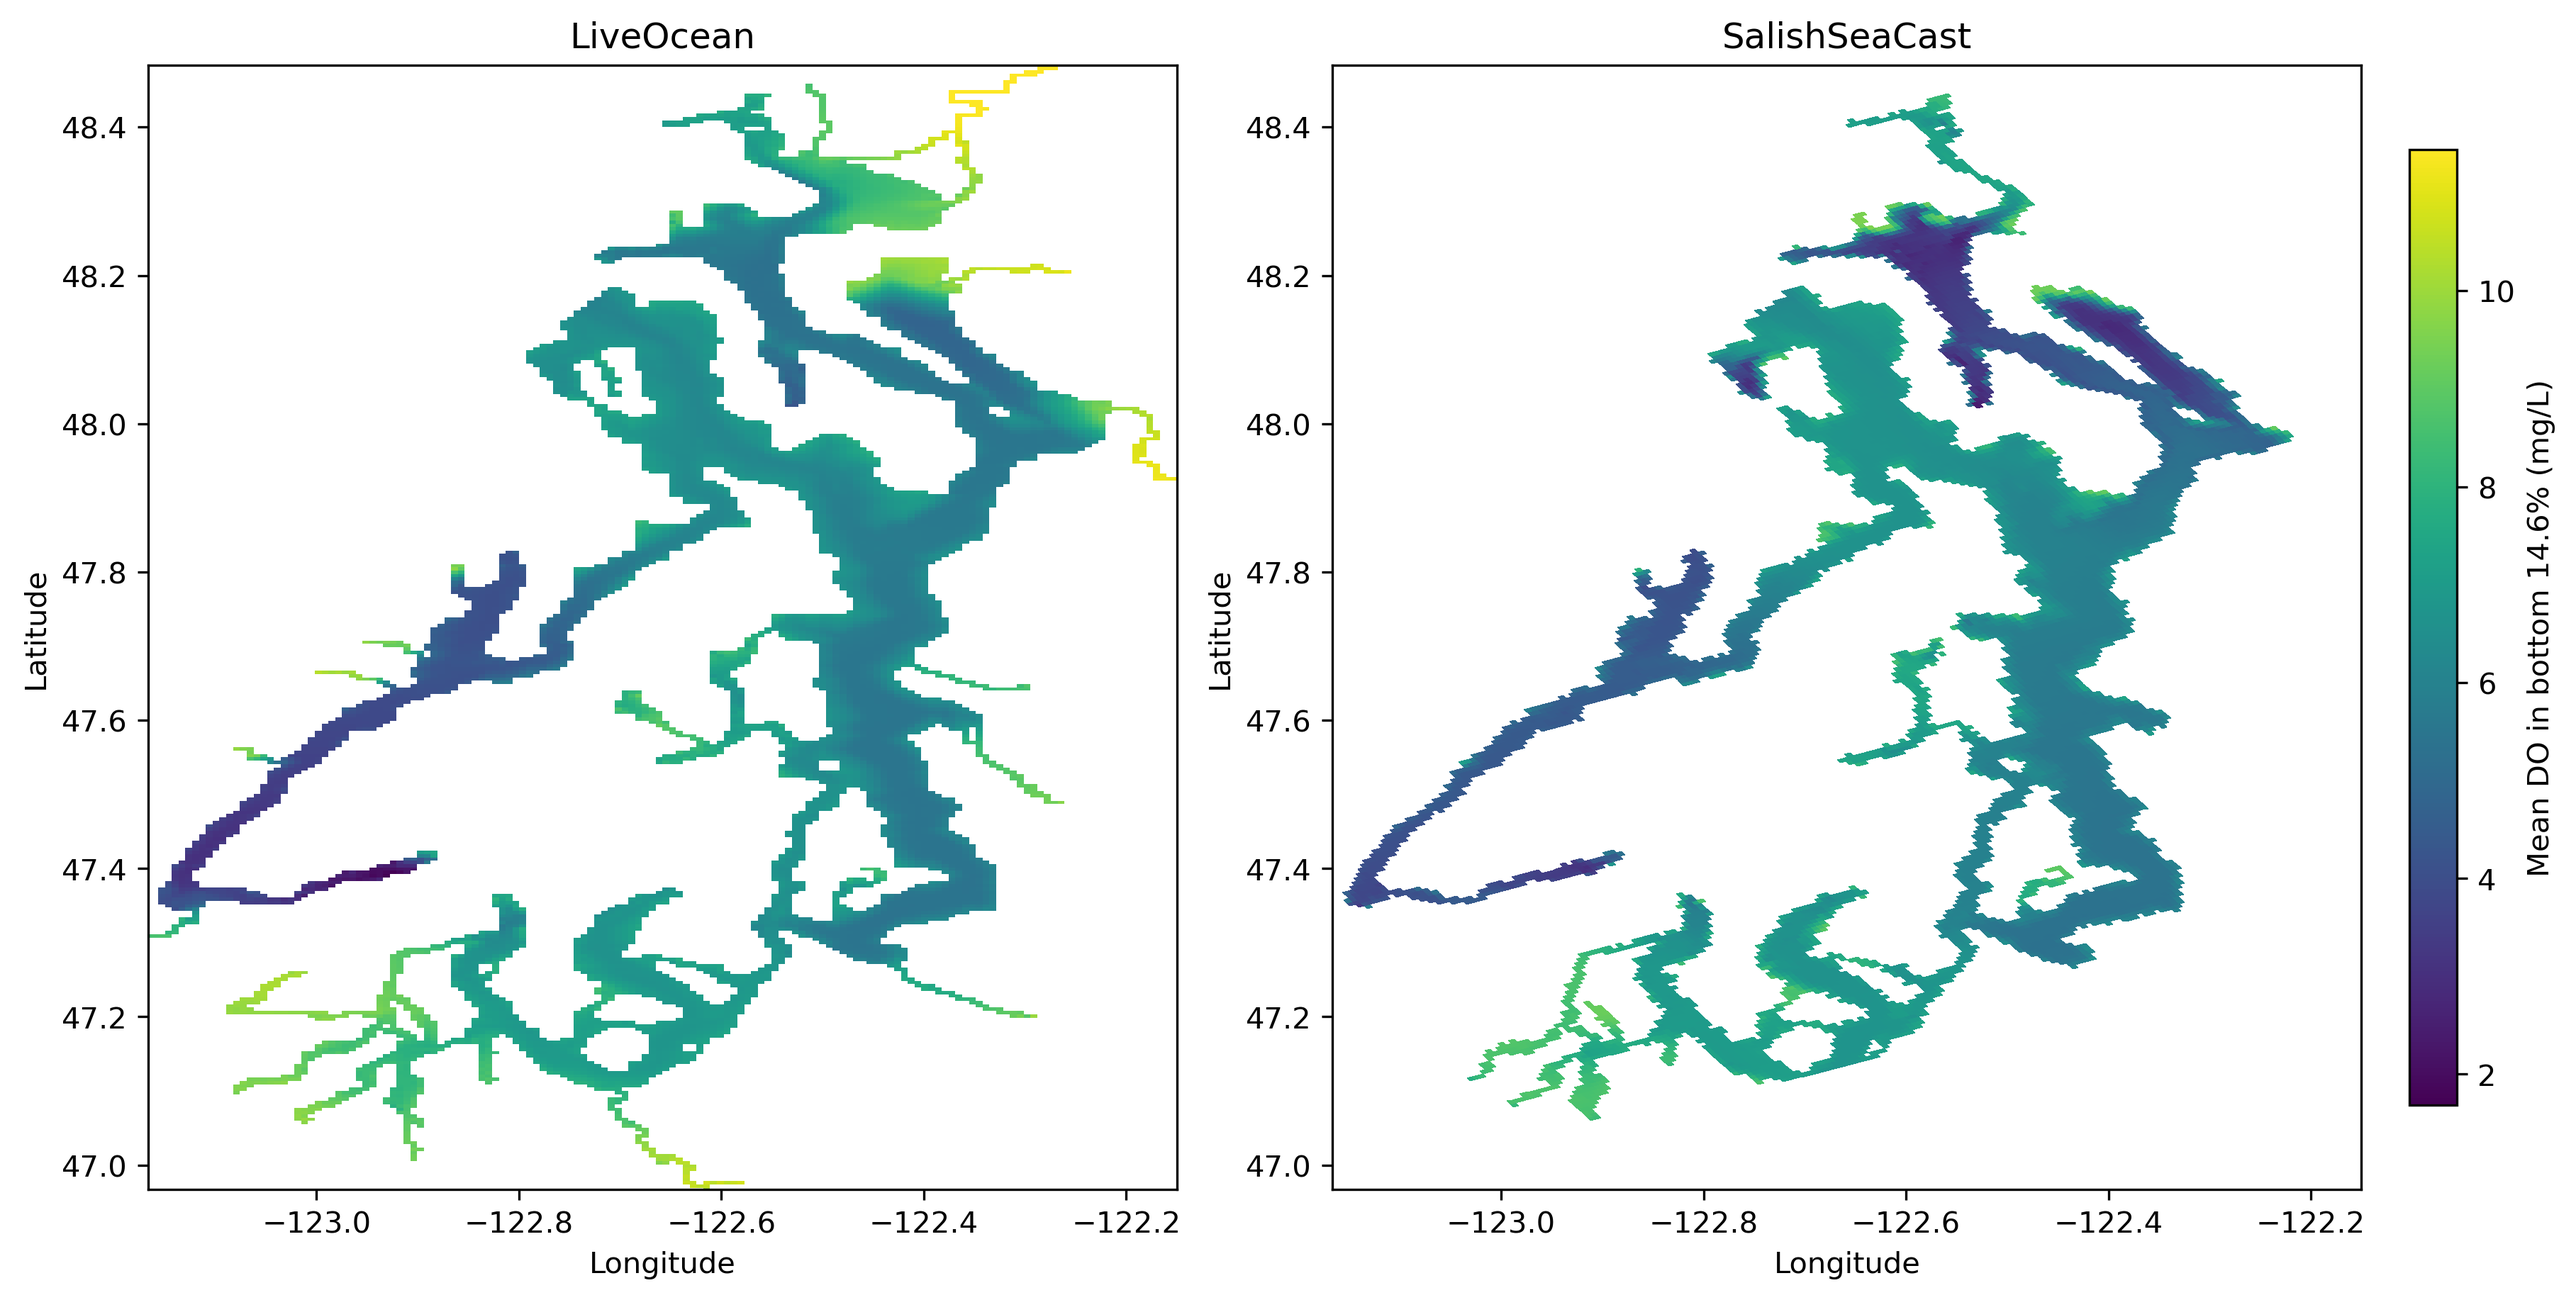
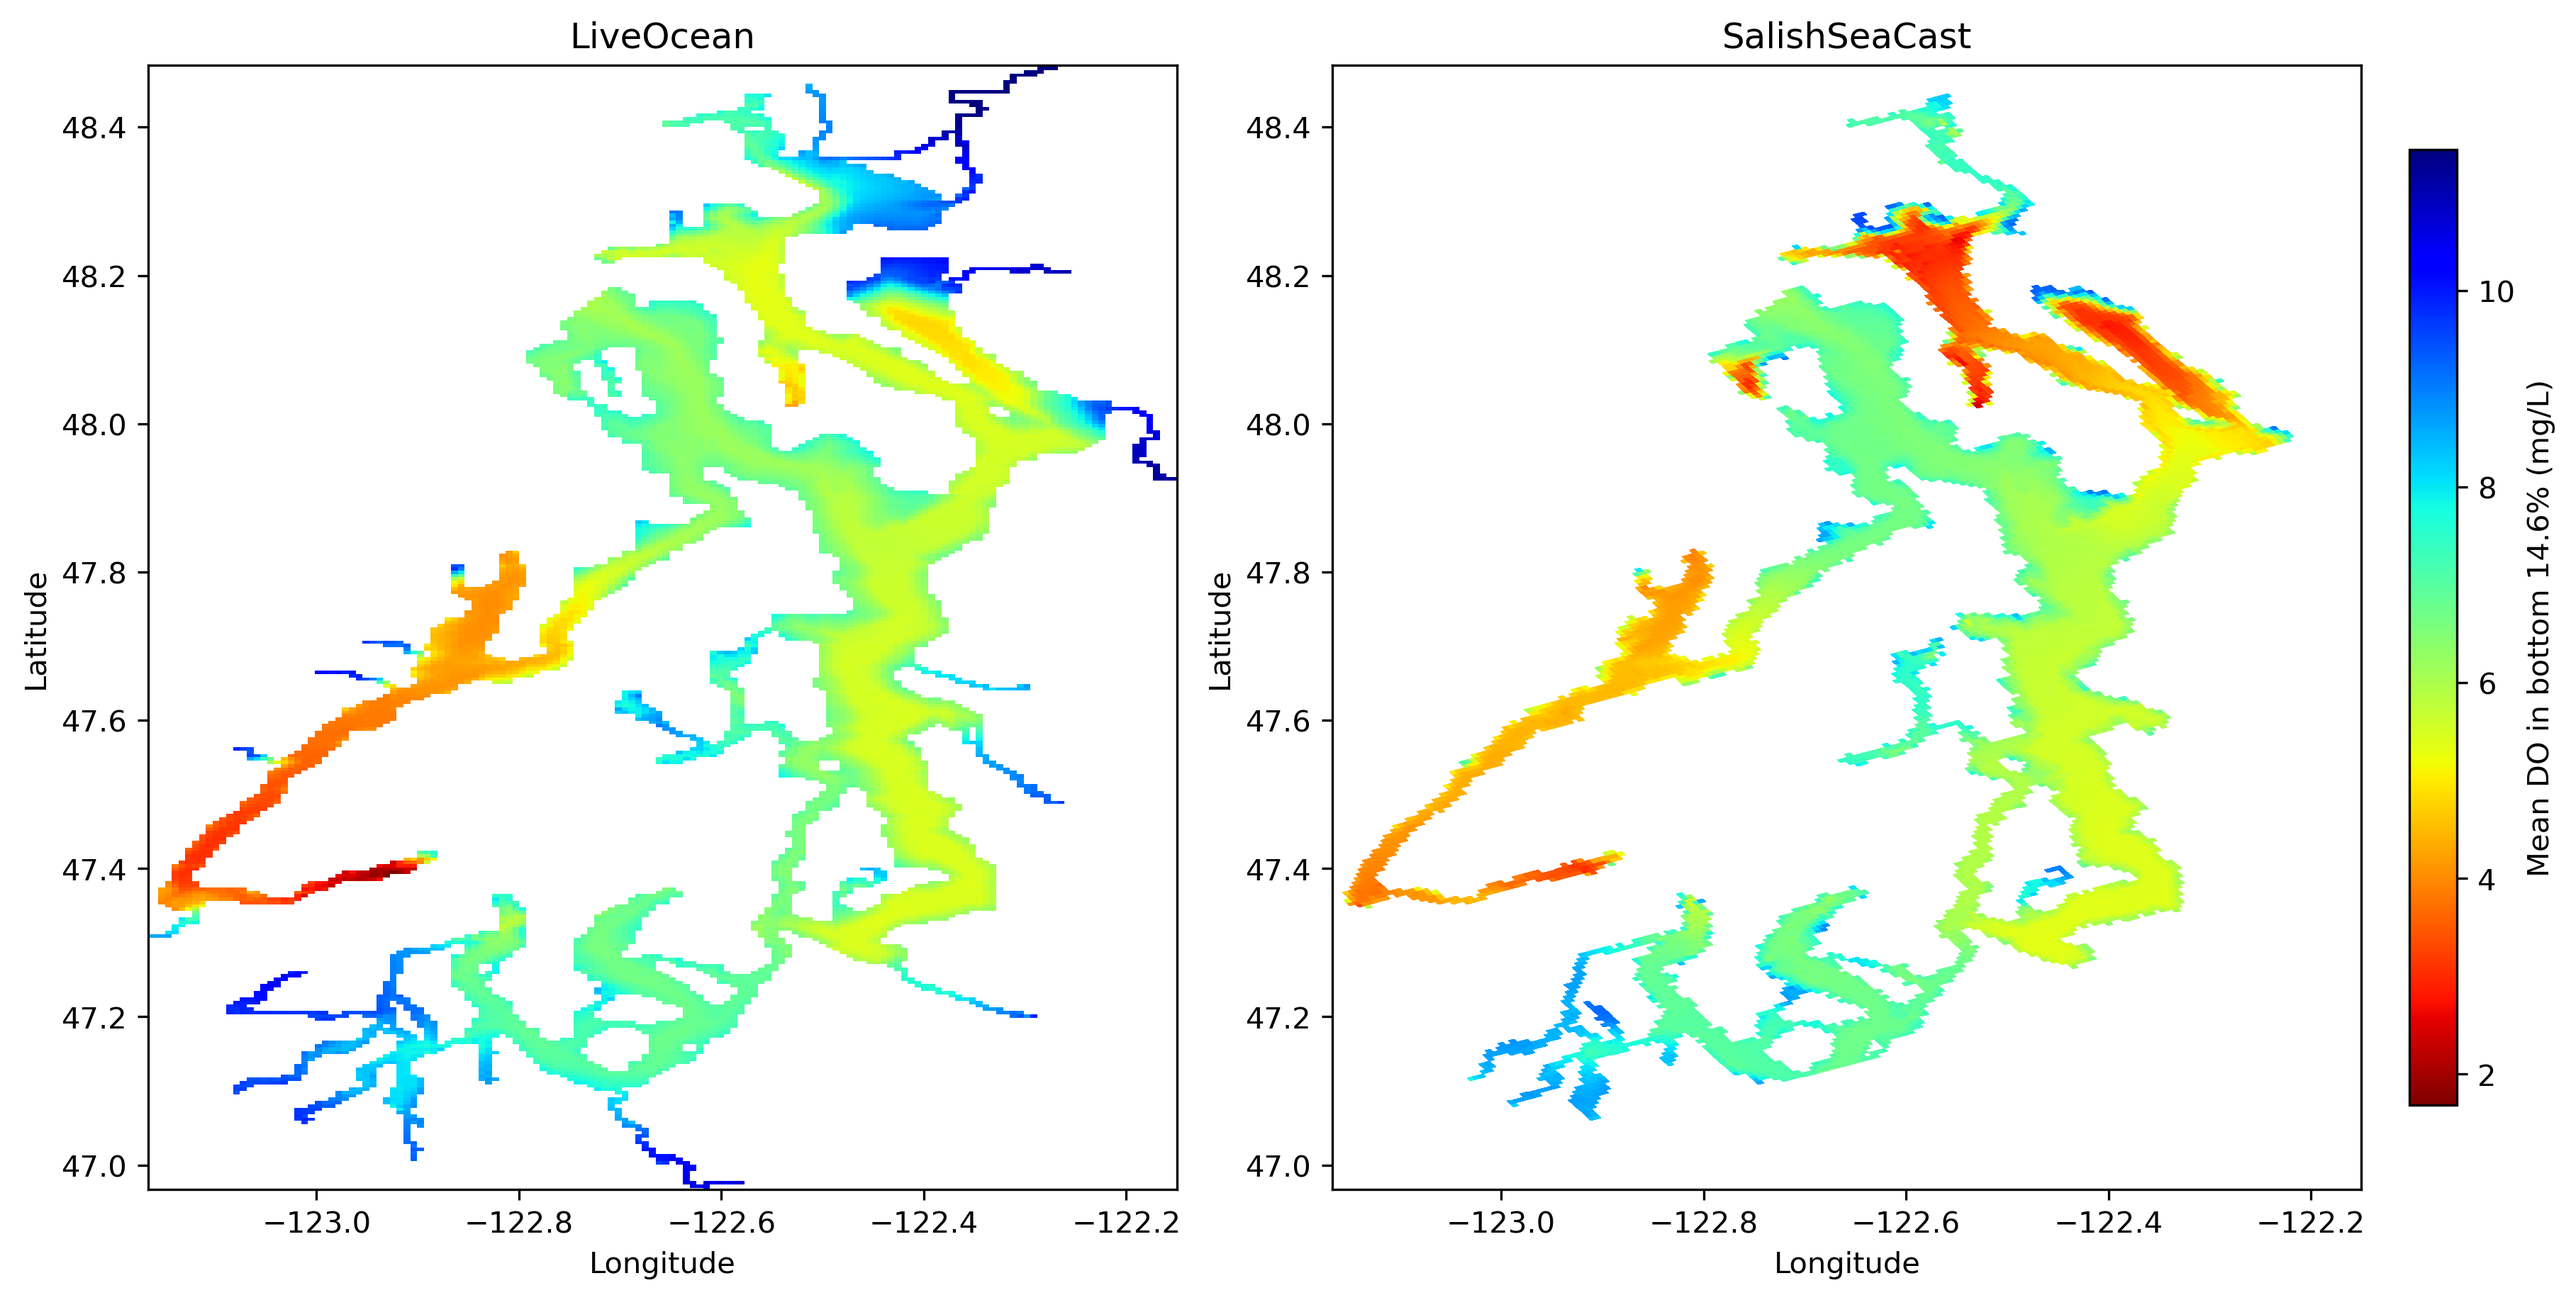
edit bottom_DO_plots.py

diff --git a/intermodel_comparison/bottom_DO/bottom_DO_plots.py b/intermodel_comparison/bottom_DO/bottom_DO_plots.py
@@ -575,7 +575,7 @@ pcm1 = axes[0].pcolormesh(
     lat_LO,
     mean_DO_LO_plot,
     shading='auto',
-    cmap='jet_r',
+    cmap='viridis_r',
     vmin=DO_min,
     vmax=DO_max
 )
@@ -593,7 +593,7 @@ pcm2 = axes[1].pcolormesh(
     lat_SSC,
     mean_DO_SSC_plot,
     shading='auto',
-    cmap='jet_r',
+    cmap='viridis_r',
     vmin=DO_min,
     vmax=DO_max
 )
